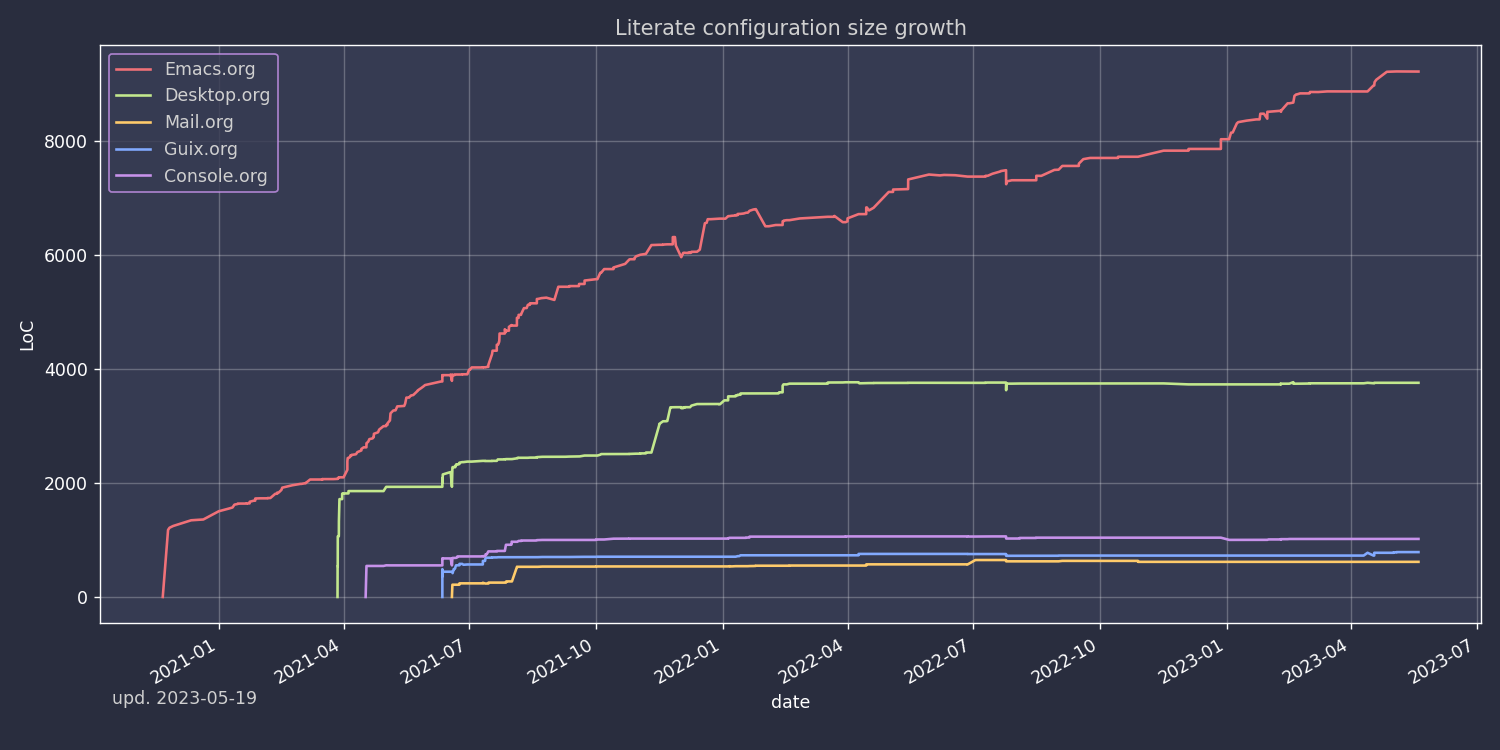
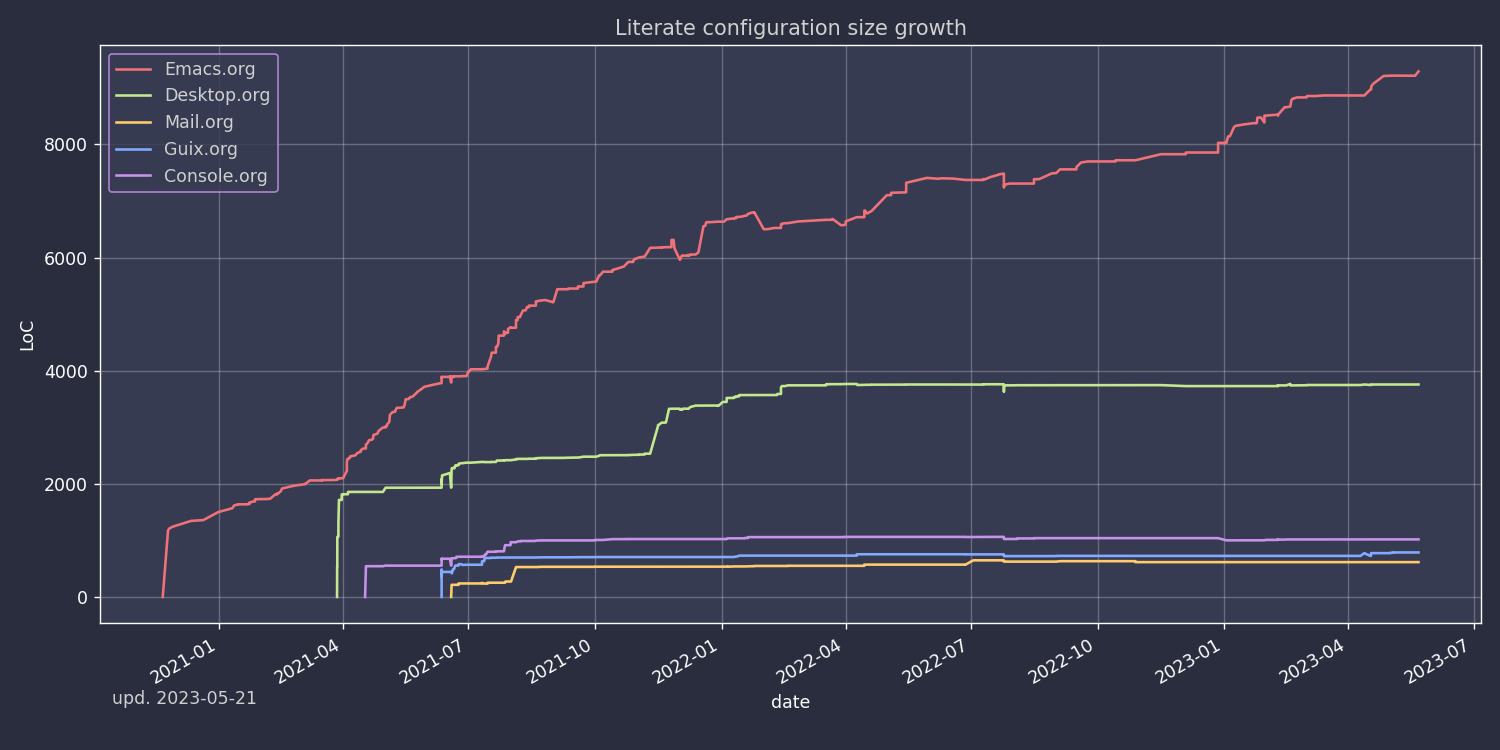
deploy: ec9d4f60e5a25ce1c0262b4c3c3db14015a5740e

diff --git a/configs/emacs/index.html b/configs/emacs/index.html
@@ -1590,8 +1590,12 @@ Emacs is also particularly great at writing Lisp code, e.g. Clojure, Common Lisp
 </span></span></code></pre></div><p>One rule looks as follows:</p>
 <div class="highlight"><pre tabindex="0" style=";-moz-tab-size:4;-o-tab-size:4;tab-size:4;"><code class="language-text" data-lang="text"><span style="display:flex;"><span>(major-mode workspace-index persp-name)
 </span></span></code></pre></div><p>And a function to act on these rules.</p>
-<div class="highlight"><pre tabindex="0" style=";-moz-tab-size:4;-o-tab-size:4;tab-size:4;"><code class="language-emacs-lisp" data-lang="emacs-lisp"><span style="display:flex;"><span>(<span style="color:#008000">defun</span> <span style="color:#19177c">my/perspective-assign</span> ()
-</span></span><span style="display:flex;"><span>  (<span style="color:#19177c">when-let*</span> ((<span style="color:#19177c">rule</span> (<span style="color:#19177c">alist-get</span> <span style="color:#19177c">major-mode</span> <span style="color:#19177c">my/perspective-assign-alist</span>)))
+<div class="highlight"><pre tabindex="0" style=";-moz-tab-size:4;-o-tab-size:4;tab-size:4;"><code class="language-emacs-lisp" data-lang="emacs-lisp"><span style="display:flex;"><span>(<span style="color:#008000">defvar</span> <span style="color:#19177c">my/perspective-assign-ignore</span> <span style="color:#800">nil</span>
+</span></span><span style="display:flex;"><span>  <span style="color:#ba2121">&#34;If non-nil, ignore </span><span style="color:#19177c">`my/perspective-assign&#39;</span><span style="color:#ba2121">&#34;</span>)
+</span></span><span style="display:flex;"><span>
+</span></span><span style="display:flex;"><span>(<span style="color:#008000">defun</span> <span style="color:#19177c">my/perspective-assign</span> ()
+</span></span><span style="display:flex;"><span>  (<span style="color:#19177c">when-let*</span> ((<span style="color:#19177c">_</span> (<span style="color:#19177c">not</span> <span style="color:#19177c">my/perspective-assign-ignore</span>))
+</span></span><span style="display:flex;"><span>	      (<span style="color:#19177c">rule</span> (<span style="color:#19177c">alist-get</span> <span style="color:#19177c">major-mode</span> <span style="color:#19177c">my/perspective-assign-alist</span>)))
 </span></span><span style="display:flex;"><span>    (<span style="color:#008000">let</span> ((<span style="color:#19177c">workspace-index</span> (<span style="color:#00f">car</span> <span style="color:#19177c">rule</span>))
 </span></span><span style="display:flex;"><span>	  (<span style="color:#19177c">persp-name</span> (<span style="color:#19177c">cadr</span> <span style="color:#19177c">rule</span>))
 </span></span><span style="display:flex;"><span>	  (<span style="color:#19177c">buffer</span> (<span style="color:#00f">current-buffer</span>)))
@@ -1607,6 +1611,10 @@ Emacs is also particularly great at writing Lisp code, e.g. Clojure, Common Lisp
 </span></span><span style="display:flex;"><span>	(<span style="color:#19177c">with-perspective</span> <span style="color:#19177c">persp-name</span>
 </span></span><span style="display:flex;"><span>	  (<span style="color:#19177c">persp-set-buffer</span> <span style="color:#19177c">buffer</span>))
 </span></span><span style="display:flex;"><span>	(<span style="color:#19177c">persp-switch-to-buffer</span> <span style="color:#19177c">buffer</span>)))))
+</span></span></code></pre></div><p>Also advise to ignore the assignment:</p>
+<div class="highlight"><pre tabindex="0" style=";-moz-tab-size:4;-o-tab-size:4;tab-size:4;"><code class="language-emacs-lisp" data-lang="emacs-lisp"><span style="display:flex;"><span>(<span style="color:#008000">defun</span> <span style="color:#19177c">my/perspective-assign-ignore-advice</span> (<span style="color:#19177c">fun</span> <span style="color:#008000">&amp;rest</span> <span style="color:#19177c">args</span>)
+</span></span><span style="display:flex;"><span>  (<span style="color:#008000">let</span> ((<span style="color:#19177c">my/perspective-assign-ignore</span> <span style="color:#800">t</span>))
+</span></span><span style="display:flex;"><span>    (<span style="color:#00f">apply</span> <span style="color:#19177c">fun</span> <span style="color:#19177c">args</span>)))
 </span></span></code></pre></div><p>If EXWM is available, then so is mine <code>perspective-exwm</code> package, which features a convenient procedure called <code>perspective-exwm-assign-window</code>. Otherwise, we just work with perspectives.</p>
 <p>Now, we have to put this function somewhere, and <code>after-change-major-mode-hook</code> seems like a perfect place for it.</p>
 <div class="highlight"><pre tabindex="0" style=";-moz-tab-size:4;-o-tab-size:4;tab-size:4;"><code class="language-emacs-lisp" data-lang="emacs-lisp"><span style="display:flex;"><span>(<span style="color:#19177c">add-hook</span> <span style="color:#19177c">&#39;after-change-major-mode-hook</span> <span style="color:#00f">#&#39;</span><span style="color:#19177c">my/perspective-assign</span>)
@@ -6862,7 +6870,7 @@ Didn&rsquo;t work out as I expected, so I&rsquo;ve made <code>org-journal-tags</
 </span></span><span style="display:flex;"><span>  (<span style="color:#19177c">erc-update-modules</span>)
 </span></span><span style="display:flex;"><span>  (<span style="color:#008000">setq</span> <span style="color:#19177c">erc-autojoin-channels-alist</span>
 </span></span><span style="display:flex;"><span>	<span style="color:#666">`</span>((<span style="color:#666">,</span>(<span style="color:#008000">rx</span> <span style="color:#ba2121">&#34;libera.chat&#34;</span>)
-</span></span><span style="display:flex;"><span>	   <span style="color:#ba2121">&#34;#systemcrafters&#34;</span>)))
+</span></span><span style="display:flex;"><span>	   <span style="color:#ba2121">&#34;#systemcrafters&#34;</span> <span style="color:#ba2121">&#34;#systemcrafters-emacs&#34;</span>)))
 </span></span><span style="display:flex;"><span>  (<span style="color:#008000">setq</span> <span style="color:#19177c">erc-kill-buffer-on-part</span> <span style="color:#800">t</span>)
 </span></span><span style="display:flex;"><span>  (<span style="color:#008000">setq</span> <span style="color:#19177c">erc-track-shorten-start</span> <span style="color:#666">8</span>))
 </span></span></code></pre></div><p>Exclude everything but actual messages from notifications.</p>
@@ -6886,7 +6894,7 @@ Didn&rsquo;t work out as I expected, so I&rsquo;ve made <code>org-journal-tags</
 </span></span><span style="display:flex;"><span>  <span style="color:#008000">:straight</span> <span style="color:#800">t</span>
 </span></span><span style="display:flex;"><span>  <span style="color:#008000">:commands</span> (<span style="color:#19177c">znc-erc</span>)
 </span></span><span style="display:flex;"><span>  <span style="color:#008000">:init</span>
-</span></span><span style="display:flex;"><span>  (<span style="color:#19177c">my-leader-def</span> <span style="color:#ba2121">&#34;ai&#34;</span> <span style="color:#00f">#&#39;</span><span style="color:#19177c">znc-erc</span>)
+</span></span><span style="display:flex;"><span>  <span style="color:#408080;font-style:italic">;; (my-leader-def &#34;ai&#34; #&#39;znc-erc)</span>
 </span></span><span style="display:flex;"><span>  (<span style="color:#19177c">my/persp-add-rule</span>
 </span></span><span style="display:flex;"><span>    <span style="color:#19177c">erc-mode</span> <span style="color:#666">3</span> <span style="color:#ba2121">&#34;ERC&#34;</span>)
 </span></span><span style="display:flex;"><span>  <span style="color:#008000">:config</span>
@@ -6949,6 +6957,12 @@ Didn&rsquo;t work out as I expected, so I&rsquo;ve made <code>org-journal-tags</
 </span></span><span style="display:flex;"><span>  (<span style="color:#19177c">display-line-numbers-mode</span> <span style="color:#666">-1</span>))
 </span></span><span style="display:flex;"><span>
 </span></span><span style="display:flex;"><span>(<span style="color:#19177c">add-hook</span> <span style="color:#19177c">&#39;mastodon-mode-hook</span> <span style="color:#00f">#&#39;</span><span style="color:#19177c">my/mastodon-configure</span>)
+</span></span></code></pre></div><p>Kill processes. Useful when the package stops working due to unstable connection.</p>
+<div class="highlight"><pre tabindex="0" style=";-moz-tab-size:4;-o-tab-size:4;tab-size:4;"><code class="language-emacs-lisp" data-lang="emacs-lisp"><span style="display:flex;"><span>(<span style="color:#008000">defun</span> <span style="color:#19177c">my/mastodon-reset</span> ()
+</span></span><span style="display:flex;"><span>  (<span style="color:#008000">interactive</span>)
+</span></span><span style="display:flex;"><span>  (<span style="color:#008000">cl-loop</span> <span style="color:#19177c">for</span> <span style="color:#19177c">process</span> <span style="color:#19177c">in</span> (<span style="color:#00f">process-list</span>)
+</span></span><span style="display:flex;"><span>	   <span style="color:#008000">if</span> (<span style="color:#19177c">string-match-p</span> <span style="color:#ba2121">&#34;emacs.ch&#34;</span> (<span style="color:#00f">process-name</span> <span style="color:#19177c">process</span>))
+</span></span><span style="display:flex;"><span>	   <span style="color:#008000">do</span> (<span style="color:#00f">delete-process</span> <span style="color:#19177c">process</span>)))
 </span></span></code></pre></div><p>The package also doesn&rsquo;t have evil bindings. I implement a few basic bindings here:</p>
 <div class="highlight"><pre tabindex="0" style=";-moz-tab-size:4;-o-tab-size:4;tab-size:4;"><code class="language-emacs-lisp" data-lang="emacs-lisp"><span style="display:flex;"><span>(<span style="color:#008000">with-eval-after-load</span> <span style="color:#19177c">&#39;mastodon</span>
 </span></span><span style="display:flex;"><span>  (<span style="color:#19177c">general-define-key</span>
@@ -7219,8 +7233,59 @@ Didn&rsquo;t work out as I expected, so I&rsquo;ve made <code>org-journal-tags</
 </span></span><span style="display:flex;"><span>  <span style="color:#008000">:straight</span> (<span style="color:#008000">:host</span> <span style="color:#19177c">github</span> <span style="color:#008000">:repo</span> <span style="color:#ba2121">&#34;alphapapa/plz.el&#34;</span>)
 </span></span><span style="display:flex;"><span>  <span style="color:#008000">:defer</span> <span style="color:#800">t</span>)
 </span></span><span style="display:flex;"><span>
+</span></span><span style="display:flex;"><span>(<span style="color:#008000">defun</span> <span style="color:#19177c">my/ement</span> ()
+</span></span><span style="display:flex;"><span>  (<span style="color:#008000">interactive</span>)
+</span></span><span style="display:flex;"><span>  (<span style="color:#19177c">ement-connect</span>
+</span></span><span style="display:flex;"><span>   <span style="color:#008000">:user-id</span> <span style="color:#ba2121">&#34;@sqrtminusone:matrix.org&#34;</span>
+</span></span><span style="display:flex;"><span>   <span style="color:#008000">:password</span> (<span style="color:#19177c">my/password-store-get</span> <span style="color:#ba2121">&#34;My_Online/Accounts/matrix&#34;</span>)))
+</span></span><span style="display:flex;"><span>
+</span></span><span style="display:flex;"><span>(<span style="color:#008000">defun</span> <span style="color:#19177c">my/ement-room-setup</span> ()
+</span></span><span style="display:flex;"><span>  (<span style="color:#19177c">display-line-numbers-mode</span> <span style="color:#666">1</span>))
+</span></span><span style="display:flex;"><span>
 </span></span><span style="display:flex;"><span>(<span style="color:#008000">use-package</span> <span style="color:#19177c">ement</span>
-</span></span><span style="display:flex;"><span>  <span style="color:#008000">:straight</span> (<span style="color:#008000">:host</span> <span style="color:#19177c">github</span> <span style="color:#008000">:repo</span> <span style="color:#ba2121">&#34;alphapapa/ement.el&#34;</span>))
+</span></span><span style="display:flex;"><span>  <span style="color:#008000">:straight</span> (<span style="color:#008000">:host</span> <span style="color:#19177c">github</span> <span style="color:#008000">:repo</span> <span style="color:#ba2121">&#34;alphapapa/ement.el&#34;</span>)
+</span></span><span style="display:flex;"><span>  <span style="color:#008000">:init</span>
+</span></span><span style="display:flex;"><span>  (<span style="color:#19177c">my-leader-def</span> <span style="color:#ba2121">&#34;ai&#34;</span> <span style="color:#00f">#&#39;</span><span style="color:#19177c">my/ement</span>)
+</span></span><span style="display:flex;"><span>  <span style="color:#008000">:config</span>
+</span></span><span style="display:flex;"><span>  (<span style="color:#008000">setq</span> <span style="color:#19177c">ement-room-list-auto-update</span> <span style="color:#800">t</span>)
+</span></span><span style="display:flex;"><span>  (<span style="color:#008000">setq</span> <span style="color:#19177c">ement-room-mark-rooms-read</span> <span style="color:#19177c">&#39;send</span>)
+</span></span><span style="display:flex;"><span>  (<span style="color:#008000">setq</span> <span style="color:#19177c">ement-room-message-format-spec</span> <span style="color:#ba2121">&#34;%S&gt; %W%B%r%R[%t]&#34;</span>)
+</span></span><span style="display:flex;"><span>  (<span style="color:#008000">setq</span> <span style="color:#19177c">ement-room-left-margin-width</span> <span style="color:#666">0</span>)
+</span></span><span style="display:flex;"><span>  (<span style="color:#008000">setq</span> <span style="color:#19177c">ement-room-right-margin-width</span> <span style="color:#666">10</span>)
+</span></span><span style="display:flex;"><span>  (<span style="color:#008000">setq</span> <span style="color:#19177c">ement-room-sender-in-left-margin</span> <span style="color:#800">nil</span>)
+</span></span><span style="display:flex;"><span>  (<span style="color:#008000">setq</span> <span style="color:#19177c">ement-room-sender-headers</span> <span style="color:#800">nil</span>)
+</span></span><span style="display:flex;"><span>  (<span style="color:#008000">setq</span> <span style="color:#19177c">ement-room-sender-in-headers</span> <span style="color:#800">nil</span>)
+</span></span><span style="display:flex;"><span>  (<span style="color:#19177c">set-face-attribute</span> <span style="color:#19177c">&#39;ement-room-reactions</span> <span style="color:#800">nil</span> <span style="color:#008000">:height</span> <span style="color:#19177c">&#39;unspecified</span>)
+</span></span><span style="display:flex;"><span>  (<span style="color:#19177c">set-face-attribute</span> <span style="color:#19177c">&#39;ement-room-reactions-key</span> <span style="color:#800">nil</span> <span style="color:#008000">:height</span> <span style="color:#19177c">&#39;unspecified</span>)
+</span></span><span style="display:flex;"><span>  (<span style="color:#19177c">set-face-attribute</span> <span style="color:#19177c">&#39;ement-room-timestamp</span> <span style="color:#800">nil</span> <span style="color:#008000">:inherit</span> <span style="color:#19177c">&#39;font-lock-function-name-face</span>)
+</span></span><span style="display:flex;"><span>  (<span style="color:#19177c">set-face-attribute</span> <span style="color:#19177c">&#39;ement-room-membership</span> <span style="color:#800">nil</span> <span style="color:#008000">:height</span> <span style="color:#666">0.9</span>
+</span></span><span style="display:flex;"><span>		      <span style="color:#008000">:inherit</span> <span style="color:#19177c">&#39;font-lock-warning-face</span>)
+</span></span><span style="display:flex;"><span>  (<span style="color:#19177c">set-face-attribute</span> <span style="color:#19177c">&#39;ement-room-wrap-prefix</span> <span style="color:#800">nil</span> <span style="color:#008000">:inherit</span> <span style="color:#19177c">&#39;unspecified</span>)
+</span></span><span style="display:flex;"><span>  (<span style="color:#19177c">set-face-attribute</span> <span style="color:#19177c">&#39;ement-room-timestamp-header</span> <span style="color:#800">nil</span> <span style="color:#008000">:height</span> <span style="color:#19177c">&#39;unspecified</span>)
+</span></span><span style="display:flex;"><span>  (<span style="color:#19177c">set-face-attribute</span> <span style="color:#19177c">&#39;ement-room-wrap-prefix</span> <span style="color:#800">nil</span> <span style="color:#008000">:inherit</span> <span style="color:#19177c">&#39;unspecified</span>)
+</span></span><span style="display:flex;"><span>  (<span style="color:#008000">setq</span> <span style="color:#19177c">ement-room-wrap-prefix</span> <span style="color:#ba2121">&#34;-&gt; &#34;</span>)
+</span></span><span style="display:flex;"><span>  (<span style="color:#008000">setq</span> <span style="color:#19177c">ement-notify-notification-predicates</span>
+</span></span><span style="display:flex;"><span>	<span style="color:#666">&#39;</span>(<span style="color:#19177c">ement-notify--event-mentions-session-user-p</span>
+</span></span><span style="display:flex;"><span>	  <span style="color:#19177c">ement-notify--event-mentions-room-p</span>
+</span></span><span style="display:flex;"><span>	  <span style="color:#19177c">ement-notify--room-unread-p</span>))
+</span></span><span style="display:flex;"><span>  (<span style="color:#19177c">advice-add</span> <span style="color:#00f">#&#39;</span><span style="color:#19177c">ement-room-list-revert</span> <span style="color:#008000">:around</span> <span style="color:#00f">#&#39;</span><span style="color:#19177c">my/perspective-assign-ignore-advice</span>)
+</span></span><span style="display:flex;"><span>  (<span style="color:#19177c">add-hook</span> <span style="color:#19177c">&#39;ement-room-mode-hook</span> <span style="color:#00f">#&#39;</span><span style="color:#19177c">my/ement-room-setup</span>)
+</span></span><span style="display:flex;"><span>  (<span style="color:#19177c">my/persp-add-rule</span>
+</span></span><span style="display:flex;"><span>    <span style="color:#19177c">ement-room-mode</span> <span style="color:#666">3</span> <span style="color:#ba2121">&#34;ement&#34;</span>
+</span></span><span style="display:flex;"><span>    <span style="color:#19177c">ement-describe-room-mode</span> <span style="color:#666">3</span> <span style="color:#ba2121">&#34;ement&#34;</span>
+</span></span><span style="display:flex;"><span>    <span style="color:#19177c">ement-room-occur-mode</span> <span style="color:#666">3</span> <span style="color:#ba2121">&#34;ement&#34;</span>
+</span></span><span style="display:flex;"><span>    <span style="color:#19177c">ement-room-list-mode</span> <span style="color:#666">3</span> <span style="color:#ba2121">&#34;ement&#34;</span>))
+</span></span></code></pre></div><p>Some custom keymaps:</p>
+<div class="highlight"><pre tabindex="0" style=";-moz-tab-size:4;-o-tab-size:4;tab-size:4;"><code class="language-emacs-lisp" data-lang="emacs-lisp"><span style="display:flex;"><span>(<span style="color:#008000">with-eval-after-load</span> <span style="color:#19177c">&#39;ement-room-list</span>
+</span></span><span style="display:flex;"><span>  (<span style="color:#19177c">general-define-key</span>
+</span></span><span style="display:flex;"><span>   <span style="color:#008000">:states</span> <span style="color:#666">&#39;</span>(<span style="color:#19177c">normal</span> <span style="color:#19177c">visual</span>)
+</span></span><span style="display:flex;"><span>   <span style="color:#008000">:keymaps</span> <span style="color:#666">&#39;</span>(<span style="color:#19177c">ement-room-list-mode-map</span>)
+</span></span><span style="display:flex;"><span>   <span style="color:#ba2121">&#34;&lt;tab&gt;&#34;</span> <span style="color:#00f">#&#39;</span><span style="color:#19177c">magit-section-toggle</span>
+</span></span><span style="display:flex;"><span>   <span style="color:#ba2121">&#34;C-j&#34;</span> <span style="color:#00f">#&#39;</span><span style="color:#19177c">magit-section-forward</span>
+</span></span><span style="display:flex;"><span>   <span style="color:#ba2121">&#34;C-k&#34;</span> <span style="color:#00f">#&#39;</span><span style="color:#19177c">magit-section-backward</span>
+</span></span><span style="display:flex;"><span>   <span style="color:#ba2121">&#34;q&#34;</span> <span style="color:#00f">#&#39;</span><span style="color:#19177c">quit-window</span>
+</span></span><span style="display:flex;"><span>   <span style="color:#ba2121">&#34;gr&#34;</span> <span style="color:#00f">#&#39;</span><span style="color:#19177c">revert-buffer</span>
+</span></span><span style="display:flex;"><span>   <span style="color:#ba2121">&#34;RET&#34;</span> <span style="color:#00f">#&#39;</span><span style="color:#19177c">ement-room-list-RET</span>))
 </span></span></code></pre></div><h4 id="telega">Telega</h4>
 <p><a href="https://github.com/zevlg/telega.el/">telega.el</a> is a Telegam client for Emacs.</p>
 <table>
@@ -7306,7 +7371,7 @@ Didn&rsquo;t work out as I expected, so I&rsquo;ve made <code>org-journal-tags</
 </span></span><span style="display:flex;"><span>		  <span style="color:#19177c">&#39;telega-image-mode</span> <span style="color:#19177c">&#39;telega-webpage-mode</span>))
 </span></span><span style="display:flex;"><span>
 </span></span><span style="display:flex;"><span>(<span style="color:#008000">setq</span> <span style="color:#19177c">telega-online-status-function</span> <span style="color:#00f">#&#39;</span><span style="color:#19177c">my/telega-online-status</span>)
-</span></span></code></pre></div><h4 id="reddit">Reddit</h4>
+</span></span></code></pre></div><h4 id="reddit"><span class="org-todo done OFF">OFF</span> Reddit</h4>
 <p><a href="https://github.com/thanhvg/emacs-reddigg">reddigg</a> allows to view reddit in org-mode.</p>
 <div class="highlight"><pre tabindex="0" style=";-moz-tab-size:4;-o-tab-size:4;tab-size:4;"><code class="language-emacs-lisp" data-lang="emacs-lisp"><span style="display:flex;"><span>(<span style="color:#008000">use-package</span> <span style="color:#19177c">reddigg</span>
 </span></span><span style="display:flex;"><span>  <span style="color:#008000">:straight</span> <span style="color:#800">t</span>)
@@ -8366,7 +8431,7 @@ I&rsquo;ve seen a couple of cases where people would swap their username and ema
             <li><a href="#mastodon">Mastodon</a></li>
             <li><a href="#ement-dot-el">ement.el</a></li>
             <li><a href="#telega">Telega</a></li>
-            <li><a href="#reddit">Reddit</a></li>
+            <li><a href="#reddit"><span class="org-todo done OFF">OFF</span> Reddit</a></li>
             <li><a href="#google-translate">Google Translate</a></li>
             <li><a href="#off--jabber"><span class="org-todo done OFF">OFF</span> (OFF) jabber</a></li>
           </ul>
